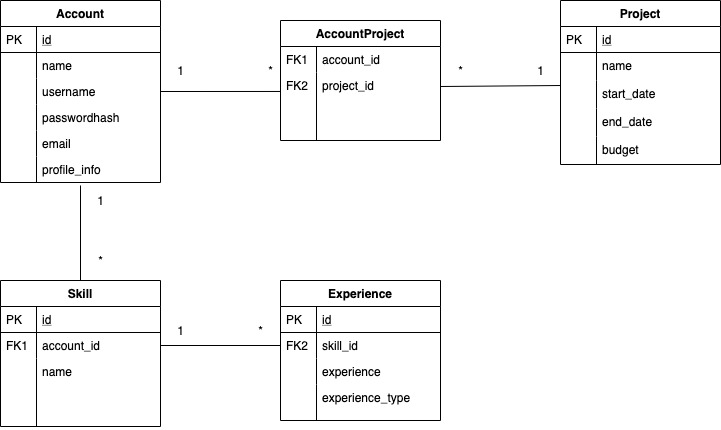
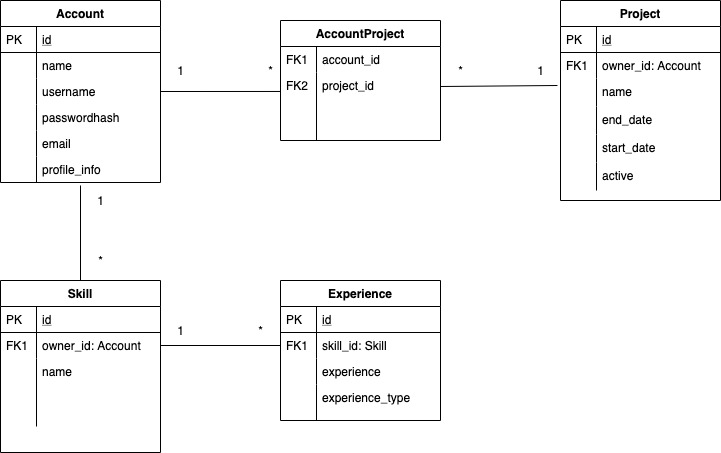
added second aggregate query and updated db schema

diff --git a/application/templates/projects/projects.html b/application/templates/projects/projects.html
@@ -15,14 +15,15 @@
           <p class="float-right" style="color: green;">Active</p>
         </div>
         <div class="card-body">
-          <h5>Staff in this project</h5>
-          <ul class="list-group list-group-flush">
-            {% for employee in project.staff %}
-            <li class="list-group-item">{{ employee.name}}</li>
-            {% endfor %}
-
             {% if project.staff | length == 0 %}
-            <li class="list-group-item">No staff yet</li>
+            <h5>No staff yet</h5>
+            {% else %}
+            <h5>{{ project.staff_count }} persons in this project:</h5>
+            <ul class="list-group list-group-flush">
+            {% for employee in project.staff %}
+              <li class="list-group-item">{{ employee.name}}</li>
+            {% endfor %}
+            </ul>
             {% endif %}
           </ul>
         </div>

diff --git a/application/projects/models.py b/application/projects/models.py
@@ -19,12 +19,18 @@ class Project(Base, UserResource):
     @staticmethod
     def find_projects_by_owner(owner_id):
         statement = text(
-            "SELECT Project.*, Account.name"
-            " FROM Project"
-            " LEFT JOIN Account_project ON Project.id = Account_project.project_id"
-            " LEFT JOIN Account ON Account.id = Account_project.account_id"
-            " WHERE Project.owner_id = :owner_id"
-            " GROUP BY Project.id, Account.name"
+            "SELECT a.id, a.name, a.start_date, a.end_date, a.active, a.account_name, b.staff_count"
+            " FROM"
+            " (SELECT Project.*, Account.name AS account_name"
+                " FROM Project"
+                " LEFT JOIN Account_project ON Project.id = Account_project.project_id"
+                " LEFT JOIN Account ON Account.id = Account_project.account_id"
+                " WHERE Project.owner_id = :owner_id"
+                " GROUP BY Project.id, Account.name) a"
+            " LEFT JOIN"
+            " (SELECT project_id AS id, COUNT(*) AS staff_count"
+            " FROM Account_project"
+            " GROUP BY project_id) b ON a.id = b.id"
         ).params(owner_id=owner_id)
 
         res = db.engine.execute(statement)
@@ -32,11 +38,12 @@ class Project(Base, UserResource):
 
         for row in res:
             id = row[0]
-            name = row[2]
-            start_date = row[3]
-            end_date = row[4]
-            active = row[5]
-            staff_name = row[7]
+            name = row[1]
+            start_date = row[2]
+            end_date = row[3]
+            active = row[4]
+            staff_name = row[5]
+            staff_count = row[6]
 
             isInList = False
 
@@ -58,6 +65,7 @@ class Project(Base, UserResource):
                     "start_date": start_date,
                     "end_date": end_date,
                     "active": active,
+                    "staff_count": staff_count,
                     "staff": []
                 }
 
